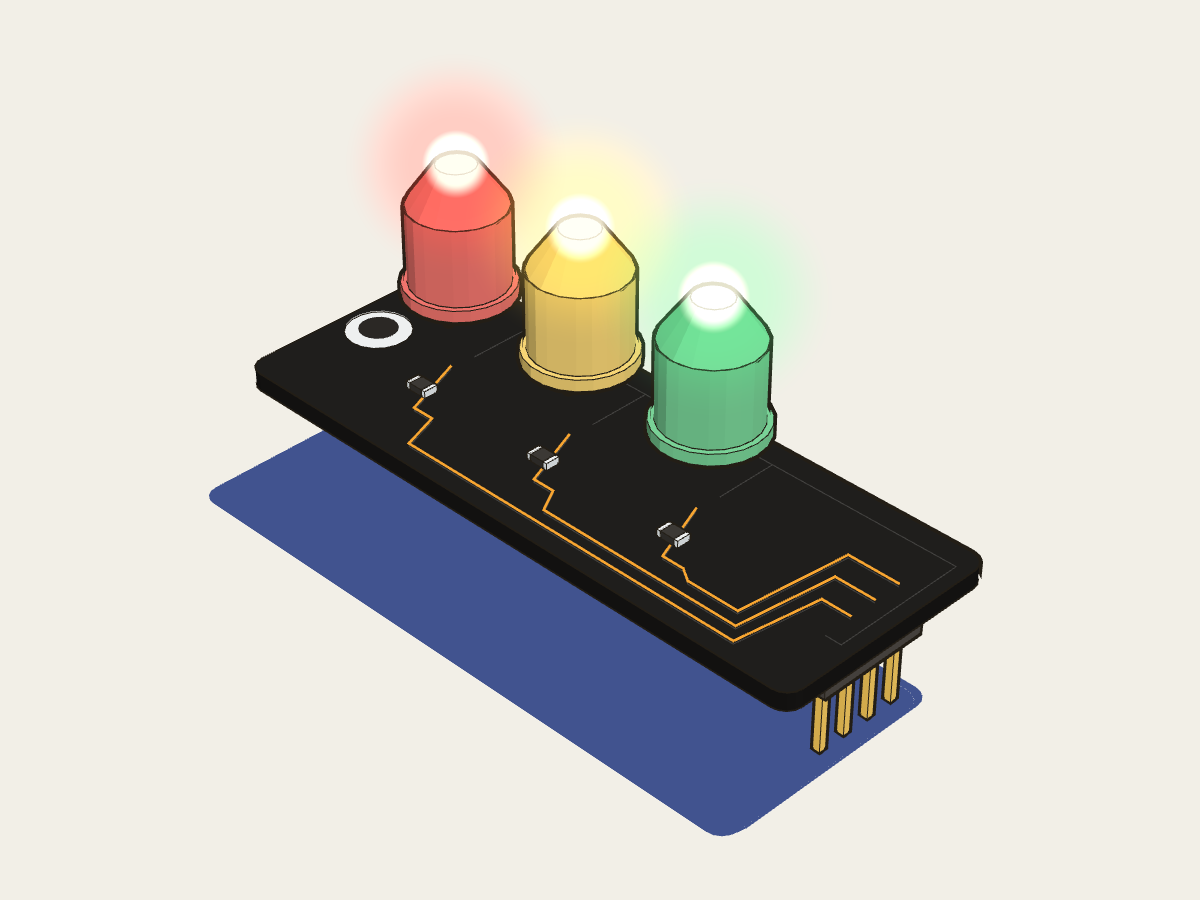
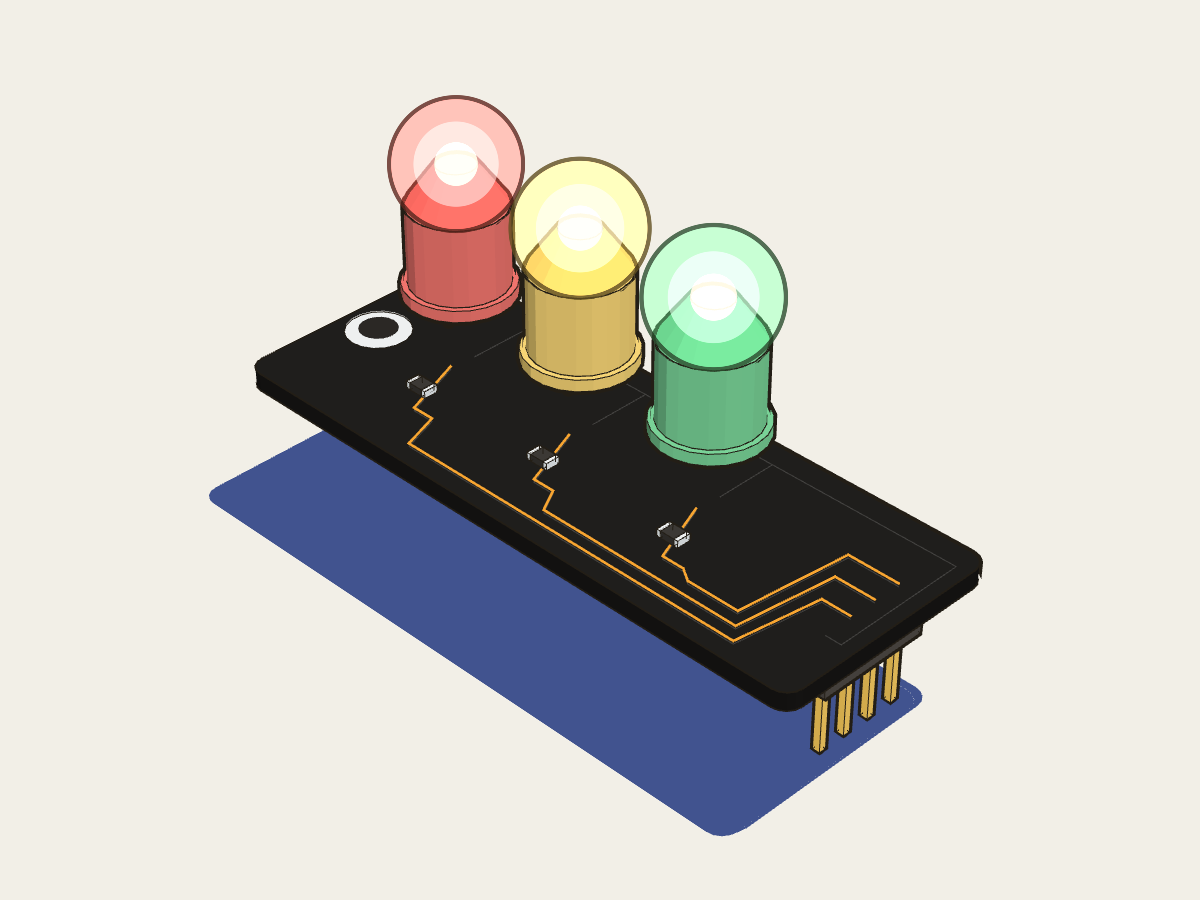
Give a lit LED's halo an ink rim and light bands so it reads on its own board colour (#135)
The halo is now flat bands (an ink-tinted rim, the LED's colour, a light band, a warm core), still one draw call
per lit LED and no post-processing. Every body material of an LED node shares one emissive uniform pair, so the
app's write to uEmissive / uEmissiveLevel also shows the halo. Viewer: scale, dist, fov, focus, bg and seat
parameters for arm's-length close-ups; shoot.mjs --suffix. Shots reshot, with four close-ups.

Changed region(s): [[0.3083, 0.0933, 0.6783, 0.4356]]

diff --git a/tools/xr-assets/material/ink.js b/tools/xr-assets/material/ink.js
@@ -489,6 +489,46 @@ void main() {
   #include <colorspace_fragment>
 }`;
 
+/* ---------- a lit LED's halo ---------- */
+/**
+ * The halo's flat bands, from the outside in, as the figure's glow discs (bench-kinds.js: a wide disc in the LED's
+ * colour, a warm white core) with an ink rim and a light band added, so a lit LED reads on any ground: a red LED on
+ * a red board (the rim and the light band), a white breadboard (the rim), a black chip (the light bands).
+ *   r      the band's outer edge as a share of the halo's radius (the rim's inner edge is GLOW_RIM_PX inside 1)
+ *   toInk / toWhite   the band's colour: the LED's, taken that far to ink or to white (sRGB, as the figure mixes)
+ *   alpha  its opacity at full level; add  the share of it that is added rather than blended, so it lights a dark
+ *          body as light does (the rim is blended only: it must stay dark)
+ */
+export const GLOW_BANDS = Object.freeze({
+  rim: Object.freeze({ r: 1, toInk: 0.75, alpha: 0.82, add: 0 }),
+  band: Object.freeze({ r: 1, toWhite: 0.12, alpha: 0.5, add: 0.3 }),
+  mid: Object.freeze({ r: 0.62, toWhite: 0.58, alpha: 0.85, add: 0.25 }),
+  core: Object.freeze({ r: 0.32, alpha: 0.97, add: 0.2 }),
+});
+/** The rim's width in pixels at an ink scale of 1. */
+export const GLOW_RIM_PX = 1.6;
+/** A dim LED's halo keeps this share of its opacity (and 0.45 of its radius): opacity x (K0 + (1 - K0) x level). */
+export const GLOW_LEVEL_K0 = 0.35;
+const glf = (x) => Number(x).toFixed(4);
+/** The halo's band colours for an LED colour ('#rrggbb' or [r, g, b] sRGB 0..1): { rim, band, mid, core } sRGB 0..1. */
+export function glowColors(color, { ink = INK, core = '#fffbe8' } = {}) {
+  const c = Array.isArray(color) ? color : hexToRgb(color), k = hexToRgb(ink);
+  const toward = (t, to) => c.map((x, i) => x + ((Array.isArray(to) ? to[i] : to) - x) * t);
+  return { rim: toward(GLOW_BANDS.rim.toInk, k), band: toward(GLOW_BANDS.band.toWhite, 1), mid: toward(GLOW_BANDS.mid.toWhite, 1), core: hexToRgb(core) };
+}
+/**
+ * What one band of the halo makes of a background, sRGB 0..1, as the shader blends it (premultiplied: the band's
+ * colour x a, plus the background x (1 - a x (1 - add)), a = alpha x the level's share).
+ */
+export function glowOver(bg, band, color, level = 1, opts = {}) {
+  const c = glowColors(color, opts)[band], { alpha, add } = GLOW_BANDS[band];
+  const a = alpha * (GLOW_LEVEL_K0 + (1 - GLOW_LEVEL_K0) * clamp01(level));
+  return c.map((x, i) => Math.min(1, x * a + bg[i] * (1 - a * (1 - add))));
+}
+/** WCAG relative luminance of an sRGB colour 0..1, and the contrast ratio of two. */
+export const luminance = (c) => { const [r, g, b] = c.map(srgbToLinear); return 0.2126 * r + 0.7152 * g + 0.0722 * b; };
+export const contrast = (a, b) => { const x = luminance(a), y = luminance(b); return (Math.max(x, y) + 0.05) / (Math.min(x, y) + 0.05); };
+
 const GLOW_VERT = /* glsl */`
 uniform vec3 uCenter;           // the parent's frame
 uniform float uRadius;          // metres, outer disc at full level
@@ -498,6 +538,7 @@ uniform float uLevel;
 uniform vec2 uResolution;
 uniform float uInkPx;
 varying vec2 vUv;
+varying float vRpx;             // the halo's radius on screen, pixels
 void main() {
   bool persp = projectionMatrix[2][3] != 0.0;
   float s = length(modelMatrix[0].xyz);               // the item's scale: radius and pull are in its metres
@@ -507,7 +548,8 @@ void main() {
   float pull = persp ? min(uPull * s, 0.5 * dist) : uPull * s;
   // one pixel in view-space metres at the centre's depth
   float px = 2.0 / (projectionMatrix[1][1] * uResolution.y) * (persp ? max(-mv.z, 1e-4) : 1.0);
-  float r = max(uRadius * s * (0.45 + 0.55 * uLevel), uMinPx * uInkPx * px);
+  vRpx = max(uRadius * s * (0.45 + 0.55 * uLevel) / px, uMinPx * uInkPx);
+  float r = vRpx * px;
   if (persp) r *= (dist - pull) / dist;               // moved towards the eye, it keeps its drawn size
   mv.xyz += toEye * pull;
   mv.xy += position.xy * r;
@@ -515,22 +557,34 @@ void main() {
   gl_Position = projectionMatrix * mv;
 }`;
 
+// the halo's bands from the outside in (GLOW_BANDS): the rim, the colour band, the light band, the core. Each edge is
+// anti-aliased over one pixel; the rim is GLOW_RIM_PX x the ink scale wide whatever the halo's size.
 const GLOW_FRAG = /* glsl */`
-uniform vec3 uColor;            // linear
+uniform vec3 uRim;              // linear, from glowColors()
+uniform vec3 uBand;
+uniform vec3 uMid;
 uniform vec3 uCore;
 uniform float uLevel;
-uniform float uAdd;
+uniform float uInkPx;
 varying vec2 vUv;
+varying float vRpx;
+float glowLevelK(float level) { return ${glf(GLOW_LEVEL_K0)} + ${glf(1 - GLOW_LEVEL_K0)} * level; }
 void main() {
   float r = length(vUv);
+  float aa = 1.0 / max(vRpx, 1.0);                     // one pixel, as a share of the radius
   if (r >= 1.0) discard;
-  float halo = 0.34 * uLevel * (1.0 - smoothstep(0.35, 1.0, r));
-  float core = 0.8 * uLevel * (1.0 - smoothstep(0.17, 0.3, r));
-  float a = halo + core - halo * core;
+  float rim = clamp(${glf(GLOW_RIM_PX)} * max(uInkPx, 1.0) * aa, 0.06, 0.3);
+  float inBand = 1.0 - smoothstep(1.0 - rim - aa, 1.0 - rim, r);
+  float inMid = 1.0 - smoothstep(${glf(GLOW_BANDS.mid.r)} - aa, ${glf(GLOW_BANDS.mid.r)}, r);
+  float inCore = 1.0 - smoothstep(${glf(GLOW_BANDS.core.r)} - aa, ${glf(GLOW_BANDS.core.r)}, r);
+  vec3 col = mix(mix(mix(uRim, uBand, inBand), uMid, inMid), uCore, inCore);
+  vec2 aw = mix(mix(mix(vec2(${glf(GLOW_BANDS.rim.alpha)}, ${glf(GLOW_BANDS.rim.add)}), vec2(${glf(GLOW_BANDS.band.alpha)}, ${glf(GLOW_BANDS.band.add)}), inBand),
+    vec2(${glf(GLOW_BANDS.mid.alpha)}, ${glf(GLOW_BANDS.mid.add)}), inMid), vec2(${glf(GLOW_BANDS.core.alpha)}, ${glf(GLOW_BANDS.core.add)}), inCore);
+  float a = aw.x * (1.0 - smoothstep(1.0 - aa, 1.0, r)) * glowLevelK(uLevel);
   if (a < 0.002) discard;
-  gl_FragColor = vec4((uColor * halo * (1.0 - core) + uCore * core) / a, 1.0);
+  gl_FragColor = vec4(col, 1.0);
   #include <colorspace_fragment>
-  gl_FragColor = vec4(gl_FragColor.rgb * a, a * (1.0 - uAdd));   // premultiplied; uAdd of it is added
+  gl_FragColor = vec4(gl_FragColor.rgb * a, a * (1.0 - aw.y));   // premultiplied; aw.y of it is added
 }`;
 
 /* logarithmic depth, when the app's renderer uses it: every ink shader writes the same depth three's own do */
@@ -854,19 +908,17 @@ export function createShadow(source, { look = {}, root = null, planeY = 0, unifo
 const topOf = (o) => { while (o.parent && !o.parent.isScene) o = o.parent; return o; };
 
 /**
- * A lit LED's halo, the figure's two glow discs (bench-kinds.js: a wide one in the LED's colour at 0.3 x lit, a
- * small warm white core at 0.75 x lit) as one camera-facing quad of 4 vertices, the discs and their radial falloff
- * computed in the fragment shader (no texture). One draw call; hidden (none) while the level is 0.
+ * A lit LED's halo: the figure's glow discs (bench-kinds.js: a wide one in the LED's colour, a small warm white core)
+ * as flat bands with an ink rim (GLOW_BANDS), on one camera-facing quad of 4 vertices, the bands computed in the
+ * fragment shader (no texture). One draw call; hidden (none) while the level is 0.
  *   center: the glow's centre in the parent's frame (the LED node); radius: the outer disc at full level, metres
  *   (it shrinks to 0.45 of that as the level falls, as the figure's does), never under minPx screen pixels x the ink
  *   scale, so a 2 mm SMD LED still reads at arm's length in the headset; pull: metres the quad is moved towards the
  *   eye (default 1.6 x radius) so the board it sits on does not cut its lower half, with its drawn size kept.
- *   add: the additive share. 0 blends the discs over what is behind (the figure's SVG), 1 adds them; between, the
- *   halo lights a dark body as light does and still tints white paper or a breadboard, where pure addition shows
- *   nothing. Premultiplied blending, depth tested, no depth write, drawn last (renderOrder 3).
- * setGlow(mesh, color, level) drives it.
+ *   Premultiplied blending (each band adds a share of itself: GLOW_BANDS add), depth tested, no depth write, drawn
+ *   last (renderOrder 3). setGlow(mesh, color, level) drives it.
  */
-export function createGlow({ center = [0, 0, 0], radius = 0.004, color = '#ffffff', level = 0, uniforms = null, look = {}, pull = null, minPx = 7, add = 0.35, core = '#fffbe8' } = {}) {
+export function createGlow({ center = [0, 0, 0], radius = 0.004, color = '#ffffff', level = 0, uniforms = null, look = {}, pull = null, minPx = 7, core = '#fffbe8' } = {}) {
   const u = uniforms || createInkUniforms(look);
   const g = new THREE.BufferGeometry();
   g.setAttribute('position', new THREE.Float32BufferAttribute([-1, -1, 0, 1, -1, 0, 1, 1, 0, -1, 1, 0], 3));
@@ -878,7 +930,8 @@ export function createGlow({ center = [0, 0, 0], radius = 0.004, color = '#fffff
     uniforms: {
       uResolution: u.uResolution, uInkPx: u.uInkPx,
       uCenter: { value: c }, uRadius: { value: radius }, uPull: { value: pull != null ? pull : 1.6 * radius }, uMinPx: { value: minPx },
-      uColor: { value: linearColor('#ffffff') }, uCore: { value: linearColor(core) }, uLevel: { value: 0 }, uAdd: { value: add },
+      uColor: { value: linearColor('#ffffff') }, uLevel: { value: 0 },
+      uRim: { value: new THREE.Color() }, uBand: { value: new THREE.Color() }, uMid: { value: new THREE.Color() }, uCore: { value: linearColor(core) },
     },
     vertexShader: VS.glow,
     fragmentShader: FS.glow,
@@ -892,6 +945,7 @@ export function createGlow({ center = [0, 0, 0], radius = 0.004, color = '#fffff
   });
   m.toneMapped = false;
   m.userData.inkRole = 'glow';
+  m.userData.ink = look.ink || INK;
   const mesh = new THREE.Mesh(g, m);
   mesh.name = 'glow';
   mesh.renderOrder = 3;
@@ -901,11 +955,13 @@ export function createGlow({ center = [0, 0, 0], radius = 0.004, color = '#fffff
   setGlow(mesh, color, level);
   return mesh;
 }
-/** A glow's colour ('#rrggbb' sRGB or THREE.Color) and level 0..1; it is drawn only while the level is above 0. */
+/** A glow's colour ('#rrggbb' sRGB, or a THREE.Color, linear) and level 0..1; it is drawn only while the level is above 0. */
 export function setGlow(mesh, color, level) {
   const un = mesh.material.uniforms;
   if (typeof color === 'string') un.uColor.value.copy(linearColor(color));
   else if (color && color.isColor) un.uColor.value.copy(color);
+  const c = un.uColor.value, bands = glowColors([c.r, c.g, c.b].map(linearToSrgb), { ink: mesh.material.userData.ink || INK });
+  for (const [k, u] of [['rim', un.uRim], ['band', un.uBand], ['mid', un.uMid]]) u.value.setRGB(...bands[k].map(srgbToLinear), THREE.LinearSRGBColorSpace);
   un.uLevel.value = clamp01(level);
   mesh.visible = un.uLevel.value > 0.003;
 }

diff --git a/tools/xr-assets/viewer/viewer.js b/tools/xr-assets/viewer/viewer.js
@@ -5,7 +5,13 @@
      servos sweep)  anchors=1 (anchor dots)  texts=1 (printed text)  lines=fat|gl  ortho=1 (orthographic camera)
      yaw=deg pitch=deg (turn the default view)  zoom=1  ink=1 (ink width scale)  shot=1 (no UI)
      copies=N (N of the item side by side: a rough draw-call check for a bench of items)
+     seat=parts/led@c10,parts/resistor@e11 (other items seated in this one: each item's first pin's tip at that
+     anchor, unturned; the Blink breadboard with its LED and resistor)
      logdepth=1 (a logarithmic depth buffer, to check the ink shaders under it)  glow=0 (no halos on lit LEDs)
+     A headset-like close-up: scale=3 (the item's scale; 3 is the app's work scale)  dist=0.5 (the camera's distance in
+     metres)  fov=45 (vertical degrees; 45 over 900 px is about a Quest 3S's 20 px per degree)  focus=<anchor id>
+     (look at that anchor rather than the item's centre)
+     bg=#rrggbb (the background; default paper)
      An Enter VR button appears where WebXR immersive-vr is supported: the item then stands at table height half a
      metre in front.
    window.__viewer exposes { asset, renderer, scene, camera, ready }; <html data-ready="1"> once a frame is drawn. */
@@ -28,7 +34,7 @@ renderer.setPixelRatio(Math.min(2, window.devicePixelRatio || 1));
 renderer.info.autoReset = true;
 renderer.xr.enabled = true;
 const scene = new THREE.Scene();
-scene.background = new THREE.Color(PAPER);
+scene.background = new THREE.Color(/^#[0-9a-f]{6}$/i.test(Q.get('bg') || '') ? Q.get('bg') : PAPER);
 // in a headset the items stand on a table-height plane in front of the viewer
 const world = new THREE.Group();
 scene.add(world);
@@ -39,7 +45,7 @@ if (navigator.xr) navigator.xr.isSessionSupported('immersive-vr').then((ok) => {
   import('three/addons/webxr/VRButton.js').then(({ VRButton }) => { const b = VRButton.createButton(renderer); b.style.position = 'static'; b.style.transform = 'none'; $('xrrow').append(b); });
 }).catch(() => {});
 const ortho = Q.get('ortho') === '1';
-const camera = ortho ? new THREE.OrthographicCamera(-1, 1, 1, -1, 0.001, 100) : new THREE.PerspectiveCamera(18, 1, 0.001, 100);
+const camera = ortho ? new THREE.OrthographicCamera(-1, 1, 1, -1, 0.001, 100) : new THREE.PerspectiveCamera(Math.min(120, Math.max(5, num('fov', 18))), 1, 0.001, 100);
 const controls = new OrbitControls(camera, canvas);
 controls.enableDamping = true;
 controls.dampingFactor = 0.12;
@@ -49,6 +55,7 @@ const state = {
   explode: num('explode', 0), xr: num('xr', 0), leds: Q.get('leds') === '1', spin: Q.get('spin') === '1',
   anchors: Q.get('anchors') === '1', texts: Q.get('texts') === '1', lines: Q.get('lines') === 'gl' ? 'gl' : 'fat',
   yaw: num('yaw', 0), pitch: num('pitch', 0), zoom: num('zoom', 1), ink: num('ink', 1),
+  scale: Math.max(0.01, num('scale', 1)), dist: num('dist', 0), focus: Q.get('focus') || '',
 };
 const viewer = { asset: null, renderer, scene, camera, controls, ready: false, items: [], state };
 window.__viewer = viewer;
@@ -107,6 +114,18 @@ async function open(id) {
       viewer.copies.push(c);
     }
   }
+  // seat=<item>@<anchor>,...: items seated in this one, their first pin on that anchor
+  for (const s of (Q.get('seat') || '').split(',').filter(Boolean)) {
+    const [sid, at] = s.split('@');
+    const sit = viewer.items.find((x) => x.id === sid && x.url);
+    const hole = (asset.sidecar.anchors || []).find((x) => x.id === at);
+    if (!sit || !hole) { fail('cannot seat ' + s); continue; }
+    const c = await loadXrAsset(sit.url, { lines: state.lines, inkScale: state.ink, hull: Q.get('hull') === 'all' ? 'all' : 'back', glow: Q.get('glow') !== '0' });
+    const pin = (c.sidecar.anchors || []).find((x) => x.kind === 'pin') || { position: [0, 0, 0] };
+    c.object.position.set(...hole.position).sub(new THREE.Vector3(...pin.position));
+    asset.object.add(c.object);
+    viewer.copies.push(c);
+  }
   if (anchorsObj) { anchorsObj.geometry.dispose(); anchorsObj.material.dispose(); anchorsObj.removeFromParent(); anchorsObj = null; }
   textsObj = null;
   viewer.asset = asset;
@@ -121,15 +140,21 @@ async function open(id) {
 function frame() {
   const a = viewer.asset, sc = a.sidecar;
   const b = sc.bounds || { min: [-0.05, 0, -0.05], max: [0.05, 0.05, 0.05] };
-  const min = new THREE.Vector3(...b.min), max = new THREE.Vector3(...b.max);
-  const c = min.clone().add(max).multiplyScalar(0.5), r = Math.max(1e-3, max.clone().sub(min).length() / 2);
+  a.object.scale.setScalar(state.scale);
+  a.object.updateMatrixWorld(true);
+  const min = new THREE.Vector3(...b.min).multiplyScalar(state.scale), max = new THREE.Vector3(...b.max).multiplyScalar(state.scale);
+  let c = min.clone().add(max).multiplyScalar(0.5);
+  const r = Math.max(1e-3, max.clone().sub(min).length() / 2);
+  const at = state.focus && a.anchor(state.focus);
+  if (state.focus && !at) fail('unknown anchor ' + state.focus);
+  if (at) c = at.position.clone();
   const v = new THREE.Vector3(...((sc.look && sc.look.defaultView) || [0.577, 0.577, 0.577])).normalize();
   if (state.yaw) v.applyAxisAngle(new THREE.Vector3(0, 1, 0), state.yaw * Math.PI / 180);
   if (state.pitch) { const side = new THREE.Vector3().crossVectors(new THREE.Vector3(0, 1, 0), v).normalize(); v.applyAxisAngle(side, -state.pitch * Math.PI / 180); }
   const aspect = canvas.clientWidth / Math.max(1, canvas.clientHeight);
   const fov = (camera.isPerspectiveCamera ? camera.fov : 18) * Math.PI / 180;
   const fit = Math.min(1, aspect);                         // fit the bounding sphere in the narrower side
-  const dist = r / Math.sin(Math.atan(Math.tan(fov / 2) * fit)) * 1.02 / state.zoom;
+  const dist = state.dist > 0 ? state.dist : r / Math.sin(Math.atan(Math.tan(fov / 2) * fit)) * 1.02 / state.zoom;
   camera.position.copy(c).addScaledVector(v, dist);
   camera.up.set(0, 1, 0);
   camera.near = dist / 200; camera.far = dist * 20;
@@ -173,7 +198,7 @@ function syncUrl() {
   if (state.spin) p.set('spin', 1);
   if (state.anchors) p.set('anchors', 1);
   if (state.texts) p.set('texts', 1);
-  for (const k of ['lines', 'ortho', 'yaw', 'pitch', 'zoom', 'ink', 'shot', 'w', 'h', 'copies', 'logdepth', 'hull', 'glow']) if (Q.has(k)) p.set(k, Q.get(k));
+  for (const k of ['lines', 'ortho', 'yaw', 'pitch', 'zoom', 'ink', 'shot', 'w', 'h', 'copies', 'seat', 'logdepth', 'hull', 'glow', 'scale', 'dist', 'fov', 'focus', 'bg']) if (Q.has(k)) p.set(k, Q.get(k));
   history.replaceState(null, '', '?' + p.toString().replace(/%2F/g, '/'));
 }
 

diff --git a/tools/xr-assets/material/xr-asset.js b/tools/xr-assets/material/xr-asset.js
@@ -23,9 +23,10 @@ import {
 export { INK, PAPER, SHADOW };
 
 const STATIC_NODES = ['static', 'static.cover', 'static.xray'];
-/** a lit LED's outer glow radius at full level: GLOW_K x its node's bounding-box diagonal + GLOW_R0 metres (a 2 mm
-    SMD LED gets about 3 mm, a 5 mm through-hole one about 6.5 mm) */
-export const GLOW_K = 0.4, GLOW_R0 = 0.0018;
+/** a lit LED's halo radius at full level: GLOW_K x its node's bounding-box diagonal + GLOW_R0 metres (a 2 mm SMD
+    LED gets about 1.7 mm, a 5 mm through-hole one about 3.5 mm; the halo's bands are flat to their edge, ink.js
+    GLOW_BANDS, so it needs less radius than a soft glow to read) */
+export const GLOW_K = 0.24, GLOW_R0 = 0.0011;
 export const glowRadius = (diag) => GLOW_K * diag + GLOW_R0;
 const absUrl = (u) => {
   try { return new URL(u).href; } catch { /* relative */ }
@@ -222,6 +223,7 @@ export function createXrAsset(gltf, sidecar, options = {}) {
     const st = { ch, nodes: ns, value: ch.value ? ch.value.rest : 0, angle: null, offset: null, rpm: 0, axis: vec(ch.axis, [0, 1, 0]).normalize(), pivot: ch.pivot ? vec(ch.pivot) : null, materials: [], glows: [] };
     if (ch.kind === 'emissive') {
       for (const n of ns) n.traverse((o) => { if (o.material && o.material.userData && o.material.userData.inkRole === 'body') st.materials.push(o.material); });
+      shareEmissive(st);
     } else {
       if (ch.kind === 'rotate' || ch.kind === 'spin') st.angle = 0;
       if (ch.kind === 'translate') st.offset = new THREE.Vector3();
@@ -447,6 +449,22 @@ export function createXrAsset(gltf, sidecar, options = {}) {
   updateInkLights(uniforms, look, root);
   object.userData.xrAsset = api;
   return api;
+}
+
+/**
+ * One emissive channel's body materials share one uEmissive and one uEmissiveLevel, so whatever writes either (set(),
+ * or an app driving a node's material directly, as xr/src/run/views/led.ts does through these uniforms) lights the
+ * whole node; writing the level also sets the channel's halos (st.glows) to the uEmissive colour and that level.
+ */
+function shareEmissive(st) {
+  if (!st.materials.length) return;
+  const color = { value: st.materials[0].uniforms.uEmissive.value };
+  let level = st.materials[0].uniforms.uEmissiveLevel.value;
+  const levelU = {
+    get value() { return level; },
+    set value(v) { level = v; for (const g of st.glows) setGlow(g, color.value, v); },
+  };
+  for (const m of st.materials) { m.uniforms.uEmissive = color; m.uniforms.uEmissiveLevel = levelU; }
 }
 
 /** exploded vertices travel up to |_explode|: grow the bounds so frustum culling never drops them */
